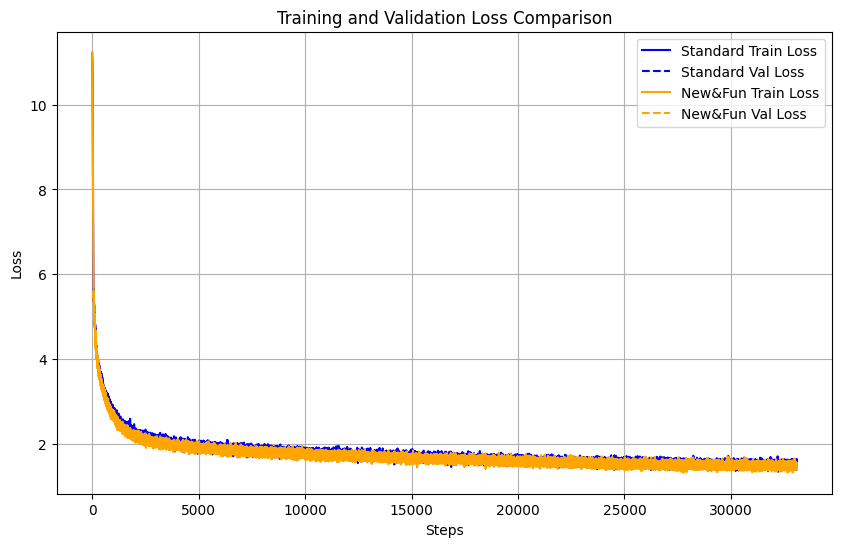
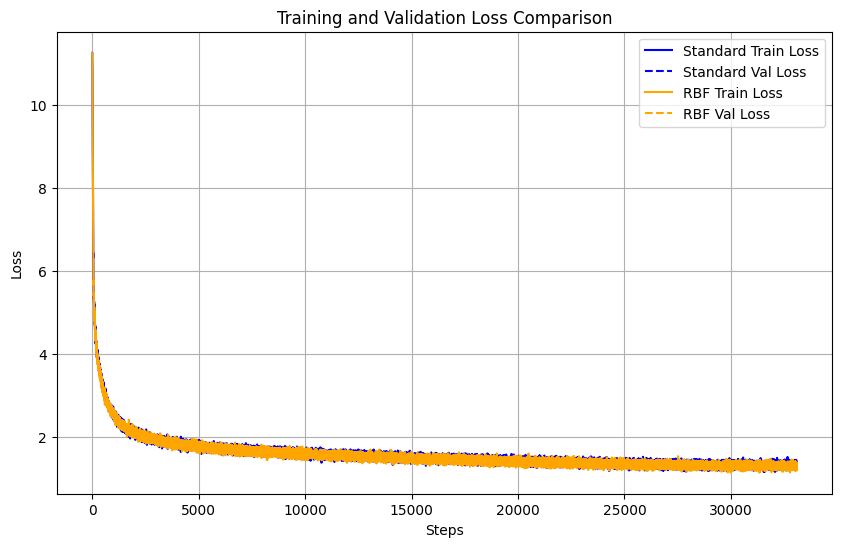
add register tokens

diff --git a/train_rbf_transformer.py b/train_rbf_transformer.py
@@ -32,8 +32,8 @@ class TrainingConfig:
     validation_ratio: float = 0.001
 
     # Training params
-    train_rbf = True
-    train_standard = True
+    train_rbf = False
+    train_standard = False
     epochs: int = 1
     log_steps: int = 100
     eval_steps: int = 1000  # Evaluate every N steps
@@ -96,9 +96,14 @@ class CausalLM(nn.Module):
 
         # Learnable Register Tokens
         if self.num_registers > 0:
-            self.register_tokens = nn.Parameter(
-                torch.randn(num_registers, d_model) * (d_model**-0.5)
-            )
+            if attention_type.startswith("standard"):
+                self.register_tokens = nn.Parameter(
+                    torch.randn(num_registers, d_model) * (d_model**-0.5)
+                )
+            elif attention_type.startswith("rbf"):
+                self.register_tokens = nn.Parameter(torch.zeros(num_registers, d_model))
+            else:
+                raise ValueError(f"Unsupported attention type: {attention_type}")
 
         self.token_emb = nn.Embedding(vocab_size, d_model)
         self.pos_emb = nn.Embedding(max_seq_len, d_model)
@@ -412,7 +417,7 @@ def visualize_attention_hf(model, tokenizer, prompt, config, save_path=None):
         _, attn_weights = model(input_ids)
 
     unwrapped_model = model._orig_mod if hasattr(model, "_orig_mod") else model
-    attention_type = unwrapped_model.layers[0].attn.attention_type
+    attention_type = unwrapped_model.blocks[0].attn.attention_type
 
     if attn_weights is None or attn_weights[0] is None:
         print(
@@ -495,7 +500,7 @@ print("Loading saved weights into SLOW models for evaluation and visualization..
 std_model_slow = CausalLM(
     vocab_size=vocab_size,
     num_layers=config.num_layers,
-    emb_dim=config.emb_dim,
+    d_model=config.emb_dim,
     num_heads=config.num_heads,
     attention_type=config.standard_eval_attention,
     max_seq_len=config.max_seq_len,
@@ -507,7 +512,7 @@ std_model_slow.load_state_dict(
 rbf_model_slow = CausalLM(
     vocab_size=vocab_size,
     num_layers=config.num_layers,
-    emb_dim=config.emb_dim,
+    d_model=config.emb_dim,
     num_heads=config.num_heads,
     attention_type=config.rbf_eval_attention,
     max_seq_len=config.max_seq_len,
